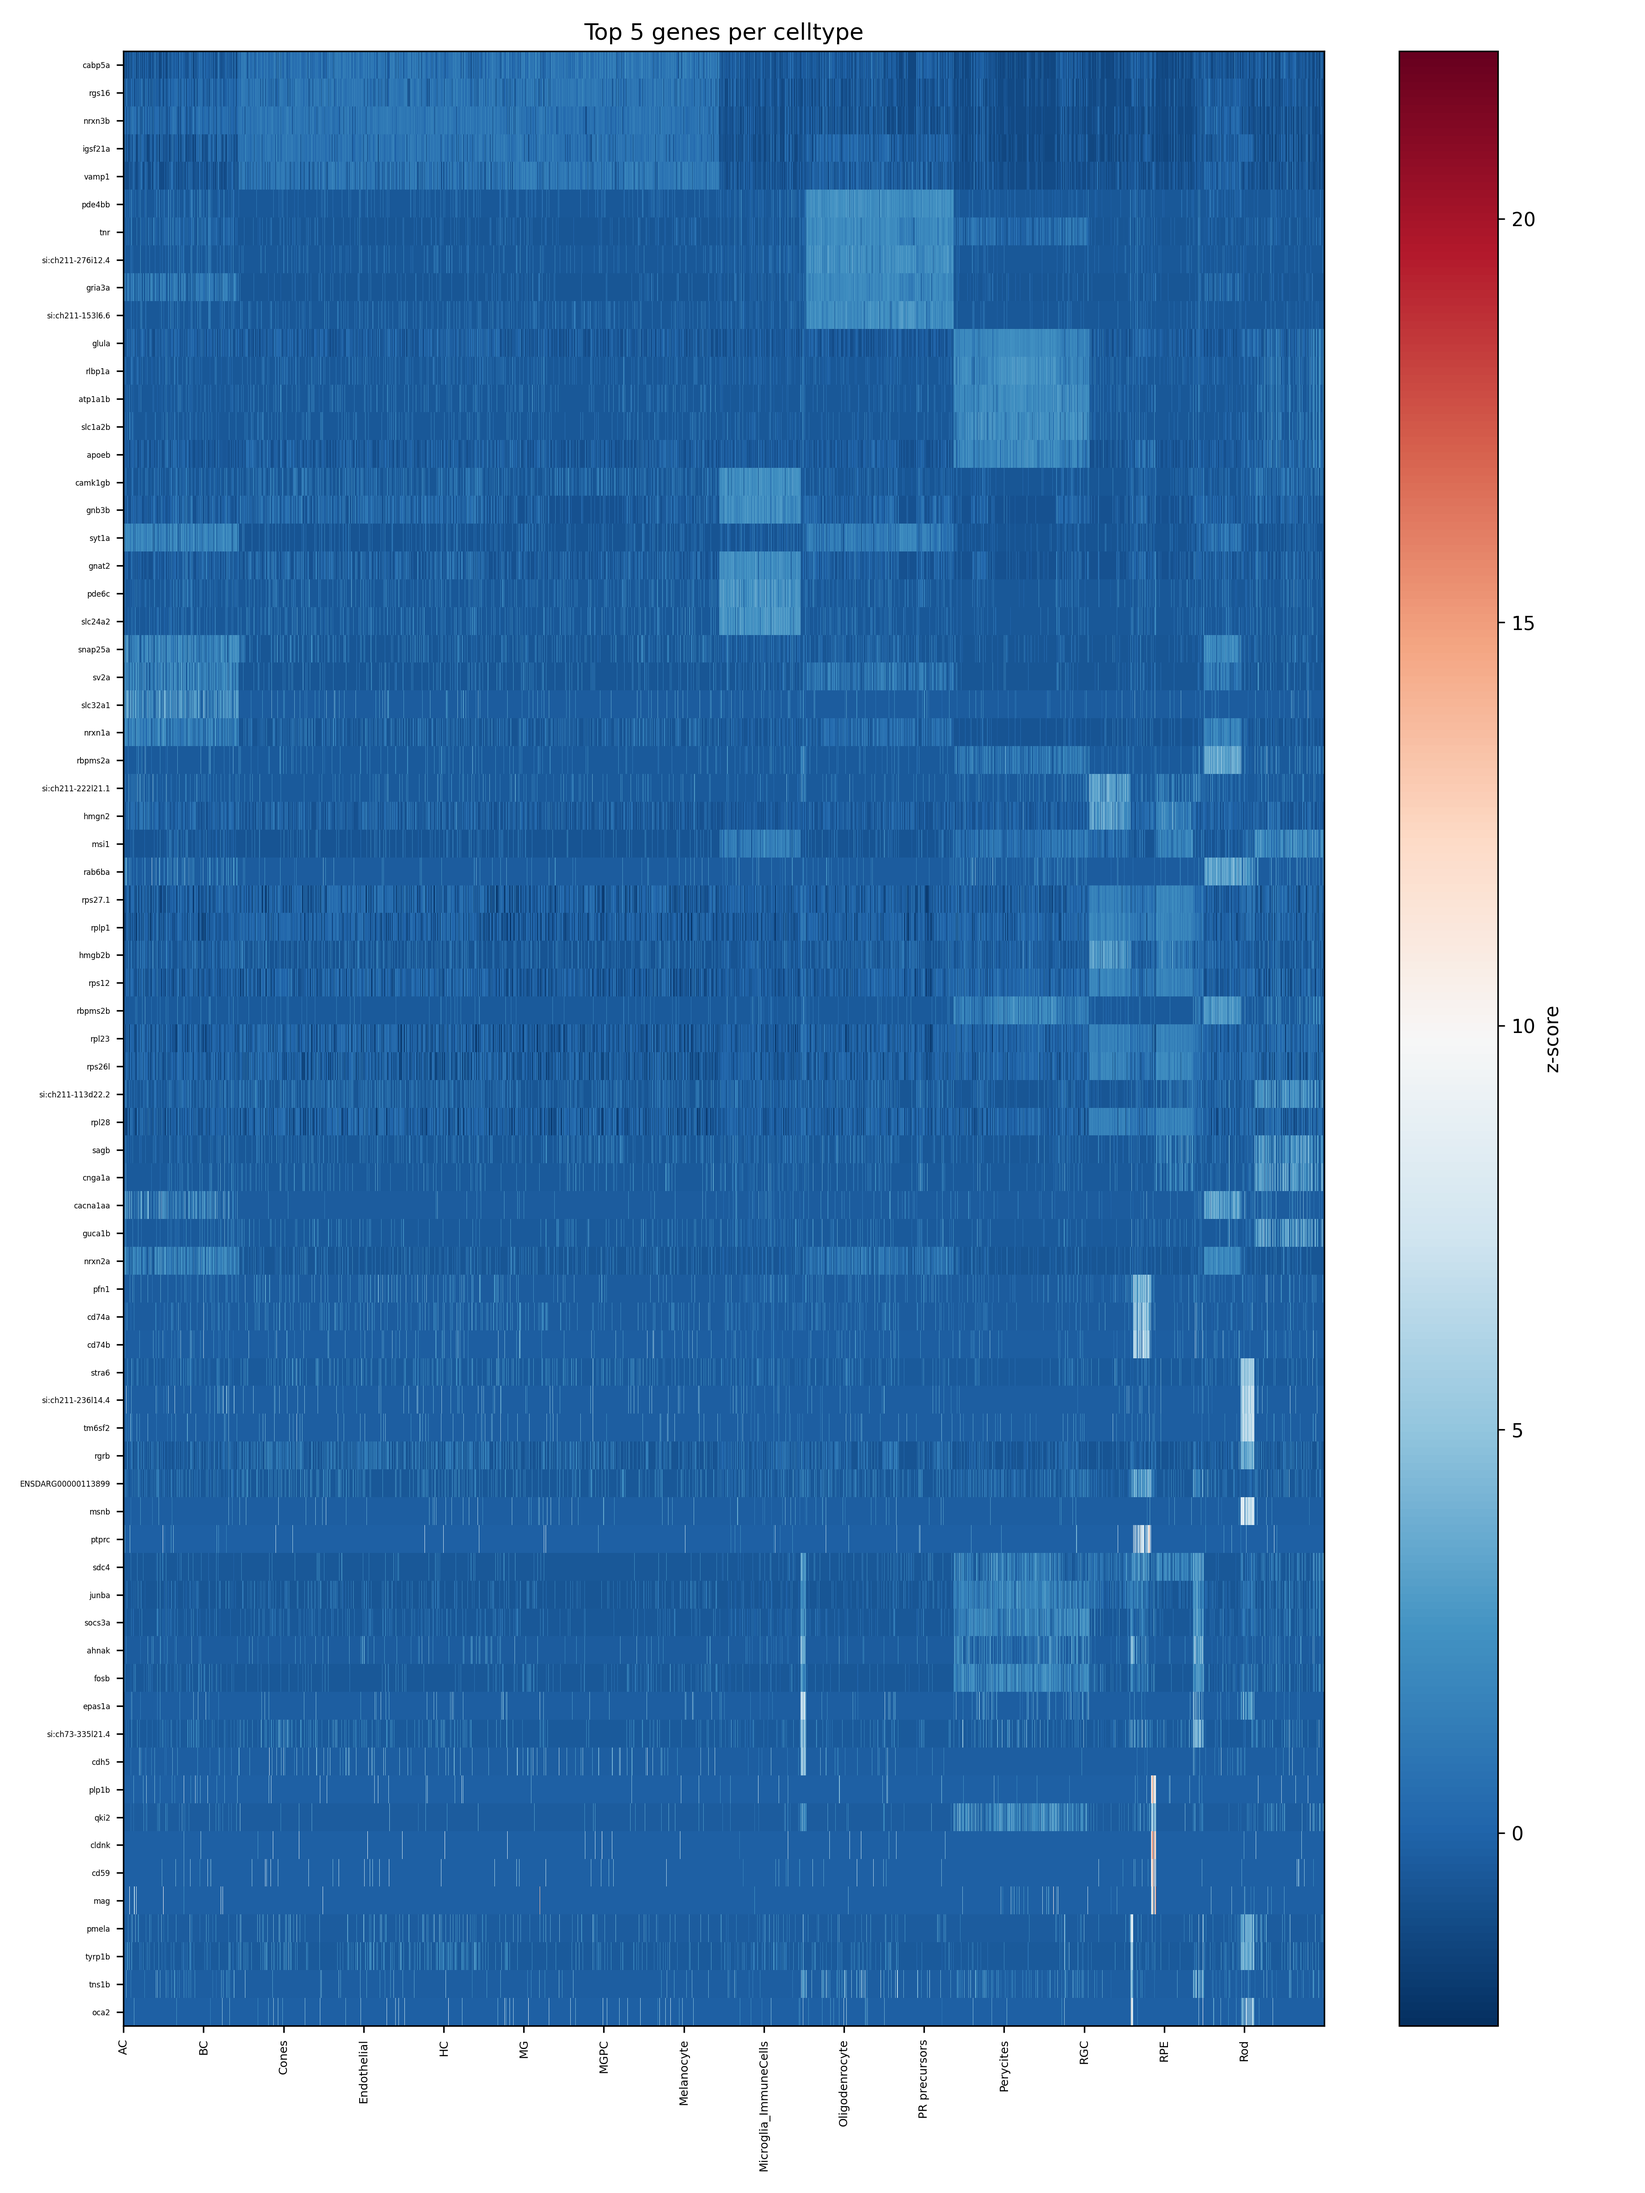
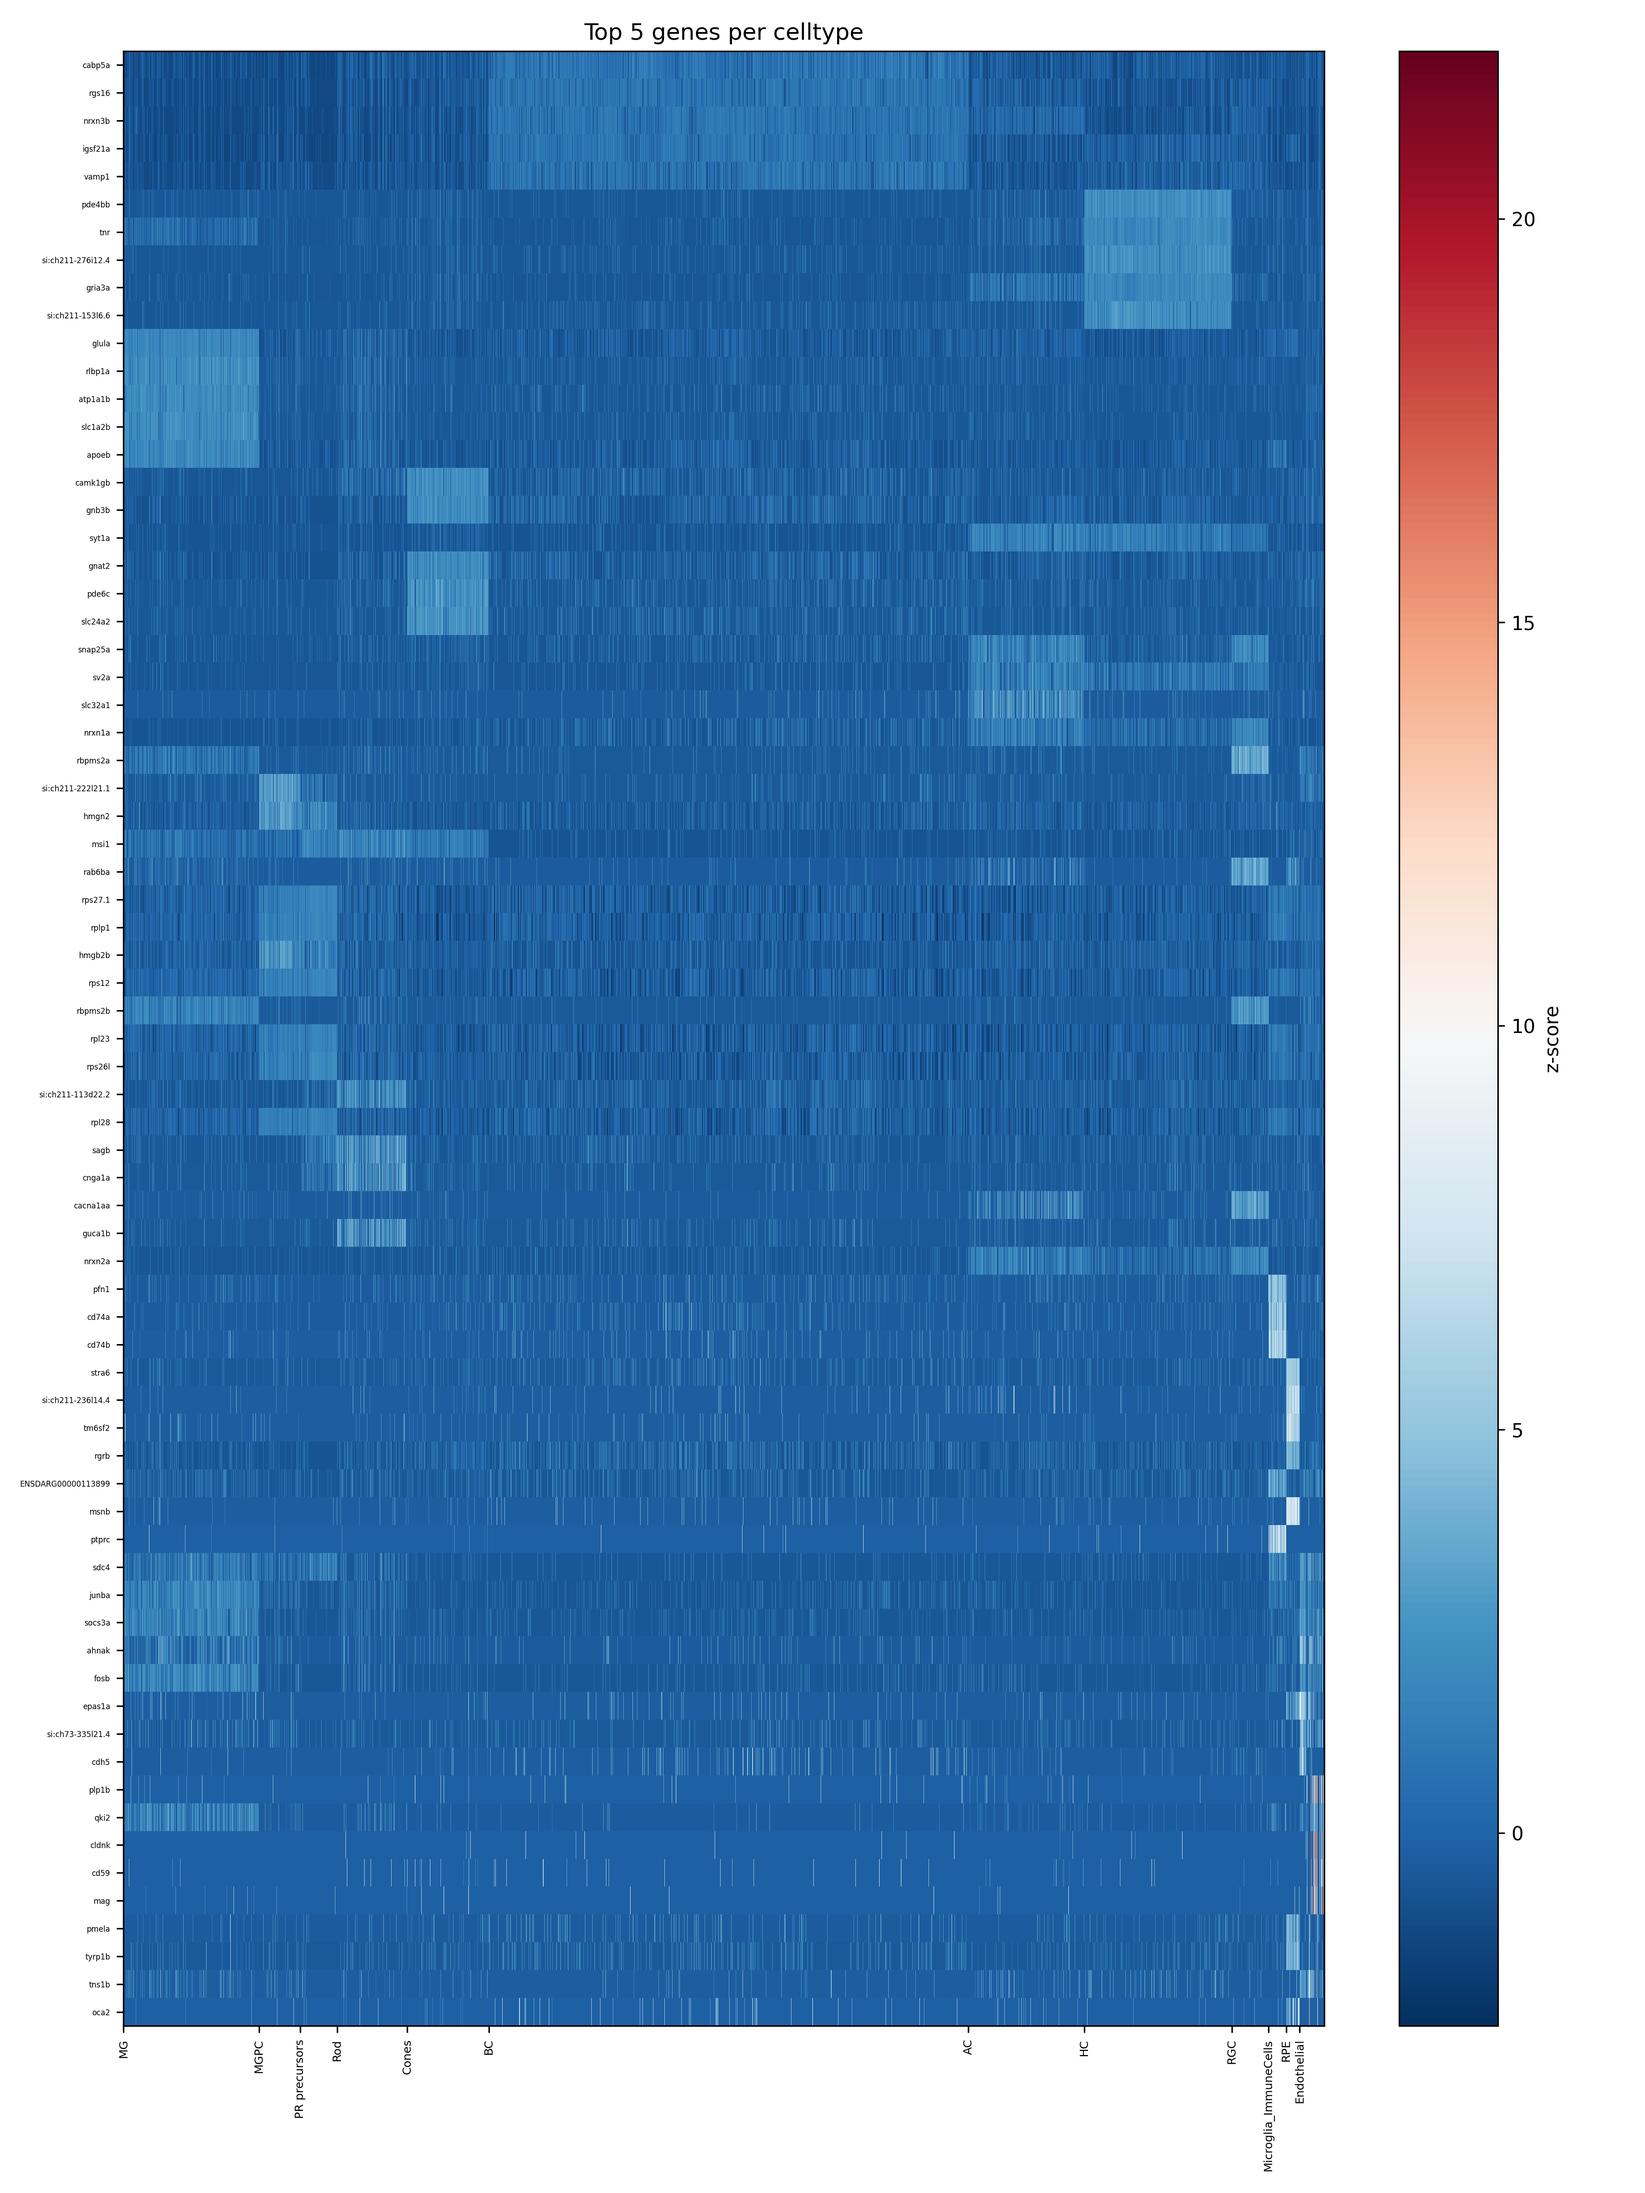
Update dge_heatmap.py to sort celltypes in heatmap - update plot accordingly

Changed region(s): [[0.0622, 0.0, 0.8089, 0.9375], [0.2178, 0.875, 0.5911, 0.9062], [0.0622, 0.875, 0.1867, 0.9375]]

diff --git a/dge_heatmap.py b/dge_heatmap.py
@@ -20,16 +20,17 @@ def main():
     # Load the h5ad containing rank_genes_groups
     adata = sc.read_h5ad(args.ih5ad)
 
-    # Extract DGE results from Scanpy
     if "rank_genes_groups" not in adata.uns:
         raise RuntimeError("rank_genes_groups missing. Run dge.py first.")
 
     r = adata.uns["rank_genes_groups"]
-    groups = r["names"].dtype.names  # all cluster names
+    scanpy_groups = r["names"].dtype.names  # original scanpy groups
 
-    # Build dataframe of Scanpy DE results
+    # ------------------------
+    # Build dataframe of DE results
+    # ------------------------
     rows = []
-    for g in groups:
+    for g in scanpy_groups:
         for i in range(len(r["names"][g])):
             rows.append({
                 "group": g,
@@ -39,7 +40,7 @@ def main():
 
     df = pd.DataFrame(rows)
 
-    # Pick topN per group
+    # Top N per group
     top_df = (
         df.sort_values("score", ascending=False)
           .groupby("group")
@@ -48,7 +49,9 @@ def main():
 
     genes = top_df["gene"].unique().tolist()
 
-    # Expression matrix from raw if exists
+    # ------------------------
+    # Extract expression
+    # ------------------------
     if adata.raw is not None:
         X = adata.raw[:, genes].X
     else:
@@ -57,29 +60,49 @@ def main():
     if hasattr(X, "toarray"):
         X = X.toarray()
 
-    # z-score genes
+    # z-score across cells
     X = (X - X.mean(axis=0)) / (X.std(axis=0) + 1e-9)
 
     df_expr = pd.DataFrame(X, columns=genes)
     df_expr[groupby] = adata.obs[groupby].values
 
-    # Sort cells by group
-    df_expr = df_expr.sort_values(by=groupby)
-    heatmap_data = df_expr.drop(columns=[groupby])
-    row_labels = df_expr[groupby].tolist()
+    # ------------------------
+    # Custom sorting for celltype
+    # ------------------------
+    if groupby == "celltype":
+        custom_order = (
+            'MG', 'MGPC', 'PR precursors', 'Rod', 'Cones',
+            'BC', 'AC', 'HC', 'RGC', 'Microglia_ImmuneCells','RPE','Endothelial', 'Pericytes','Oligocytes','Melanocytes'
+        )
+        # keep only those present in data
+        present_order = [x for x in custom_order if x in df_expr[groupby].unique()]
+        df_expr[groupby] = pd.Categorical(df_expr[groupby], categories=present_order, ordered=True)
+        df_expr = df_expr.sort_values(groupby)
+        ordered_groups = present_order
+    else:
+        df_expr = df_expr.sort_values(groupby)
+        ordered_groups = df_expr[groupby].unique().tolist()
 
+    # Extract heatmap matrix
+    heatmap_data = df_expr.drop(columns=[groupby]).to_numpy()
+
+    # ------------------------
     # Plot heatmap
+    # ------------------------
     plt.figure(figsize=(12, 16))
     plt.imshow(heatmap_data.T, aspect='auto', cmap='RdBu_r', interpolation='nearest')
     plt.colorbar(label='z-score')
 
-    # y-axis = genes
+    # gene names along y-axis
     plt.yticks(range(len(genes)), genes, fontsize=4)
 
-    # x-axis = group labels (cluster or celltype)
+    # Correct x-axis labeling: one tick per group
+    group_cell_counts = df_expr[groupby].value_counts()[ordered_groups].tolist()
+    group_tick_positions = np.cumsum([0] + group_cell_counts[:-1])
+
     plt.xticks(
-        ticks=np.linspace(0, heatmap_data.shape[0], num=len(groups), endpoint=False),
-        labels=groups,
+        ticks=group_tick_positions,
+        labels=ordered_groups,
         rotation=90,
         fontsize=6
     )

diff --git a/README.md b/README.md
@@ -448,7 +448,7 @@ python pearson_heatmap.py annotated_clustered_corrected_doubletRemoved_Zebrafish
 
 [Download all DGE here](https://docs.google.com/spreadsheets/d/1yGYvD2I4IOZQUterO7G_7qOr6lOub_5T3ggRZiGe8nY/edit?usp=sharing)
 
-![Zebrafish DGE heatmap](figures/zebrafish_dge_heatmap.png)
+![Zebrafish DGE heatmap](figures/zebrafish_dge_heatmap.png?v=2)
 
 ## Differential gene expression per subset 
 
